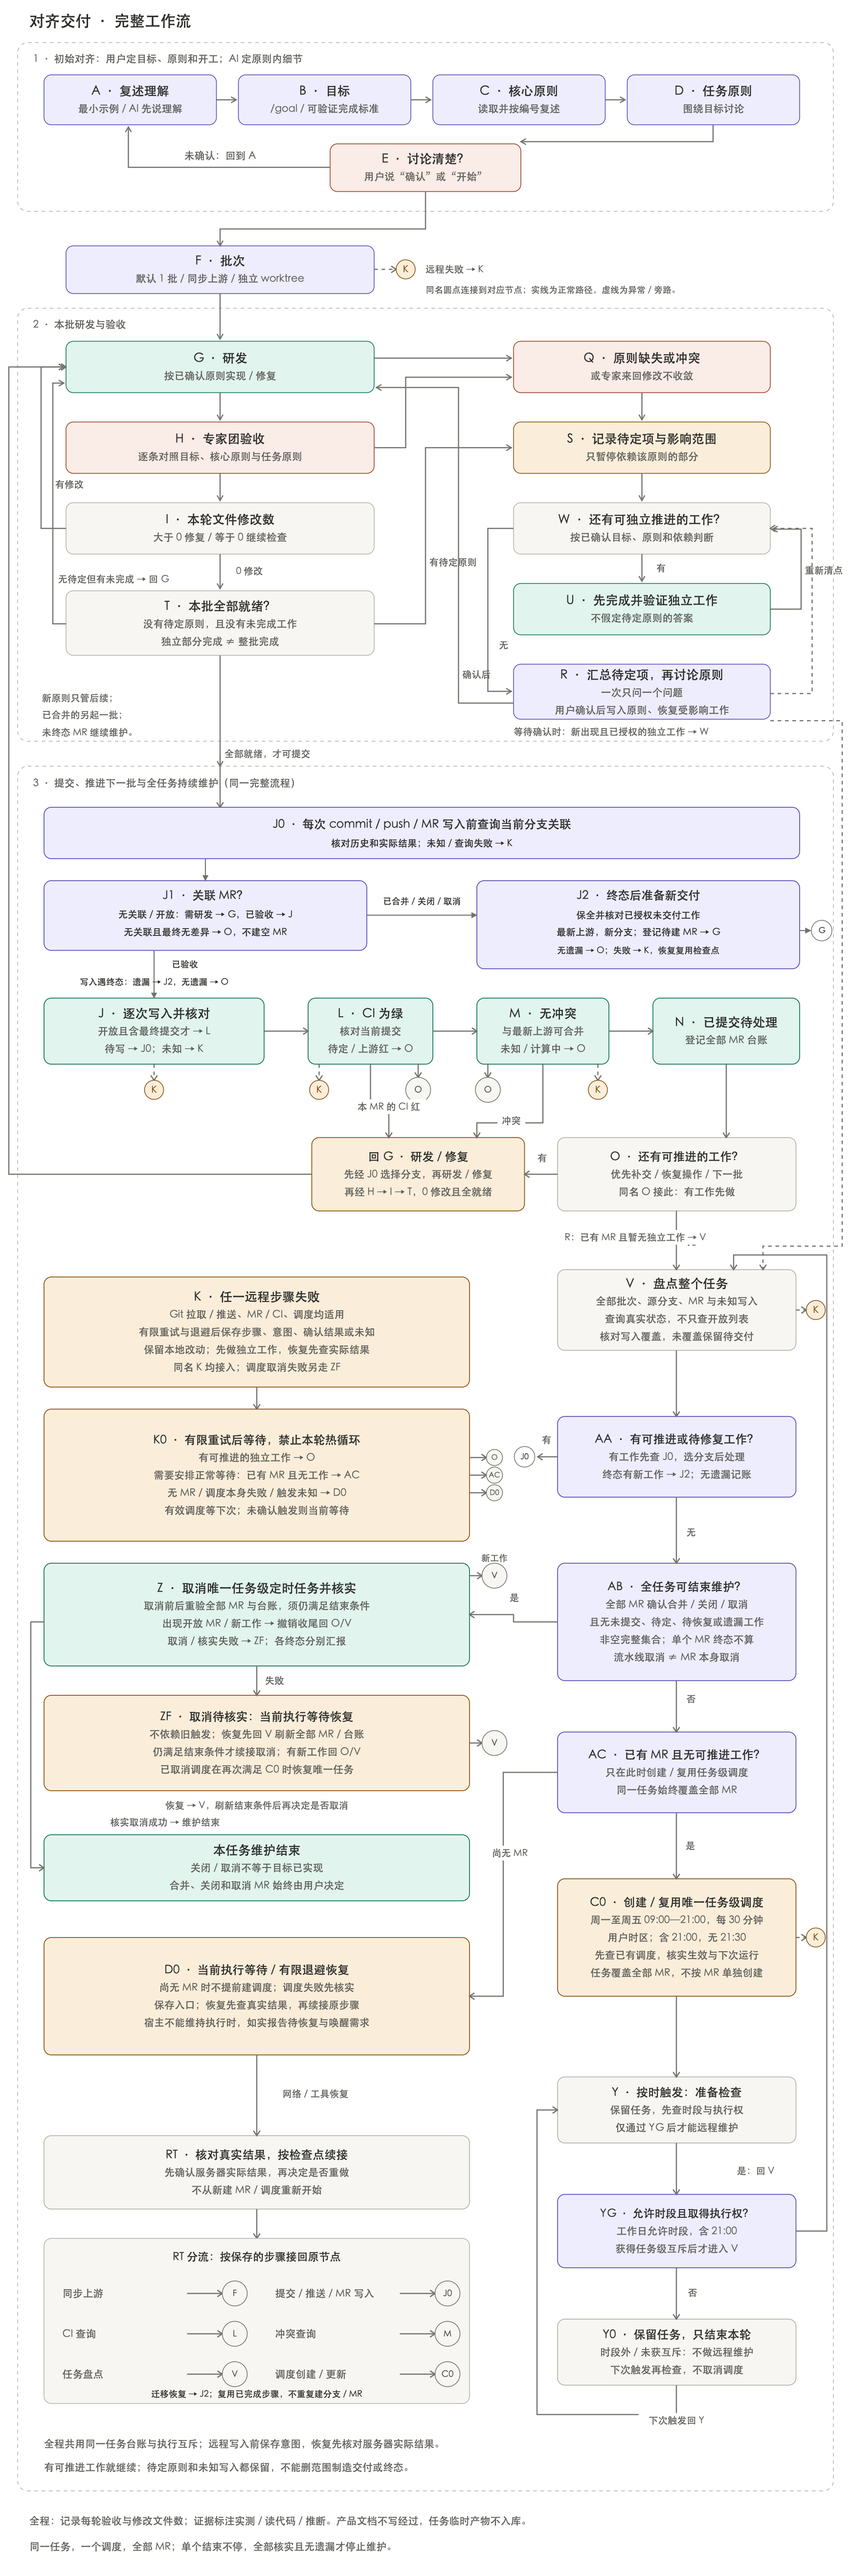
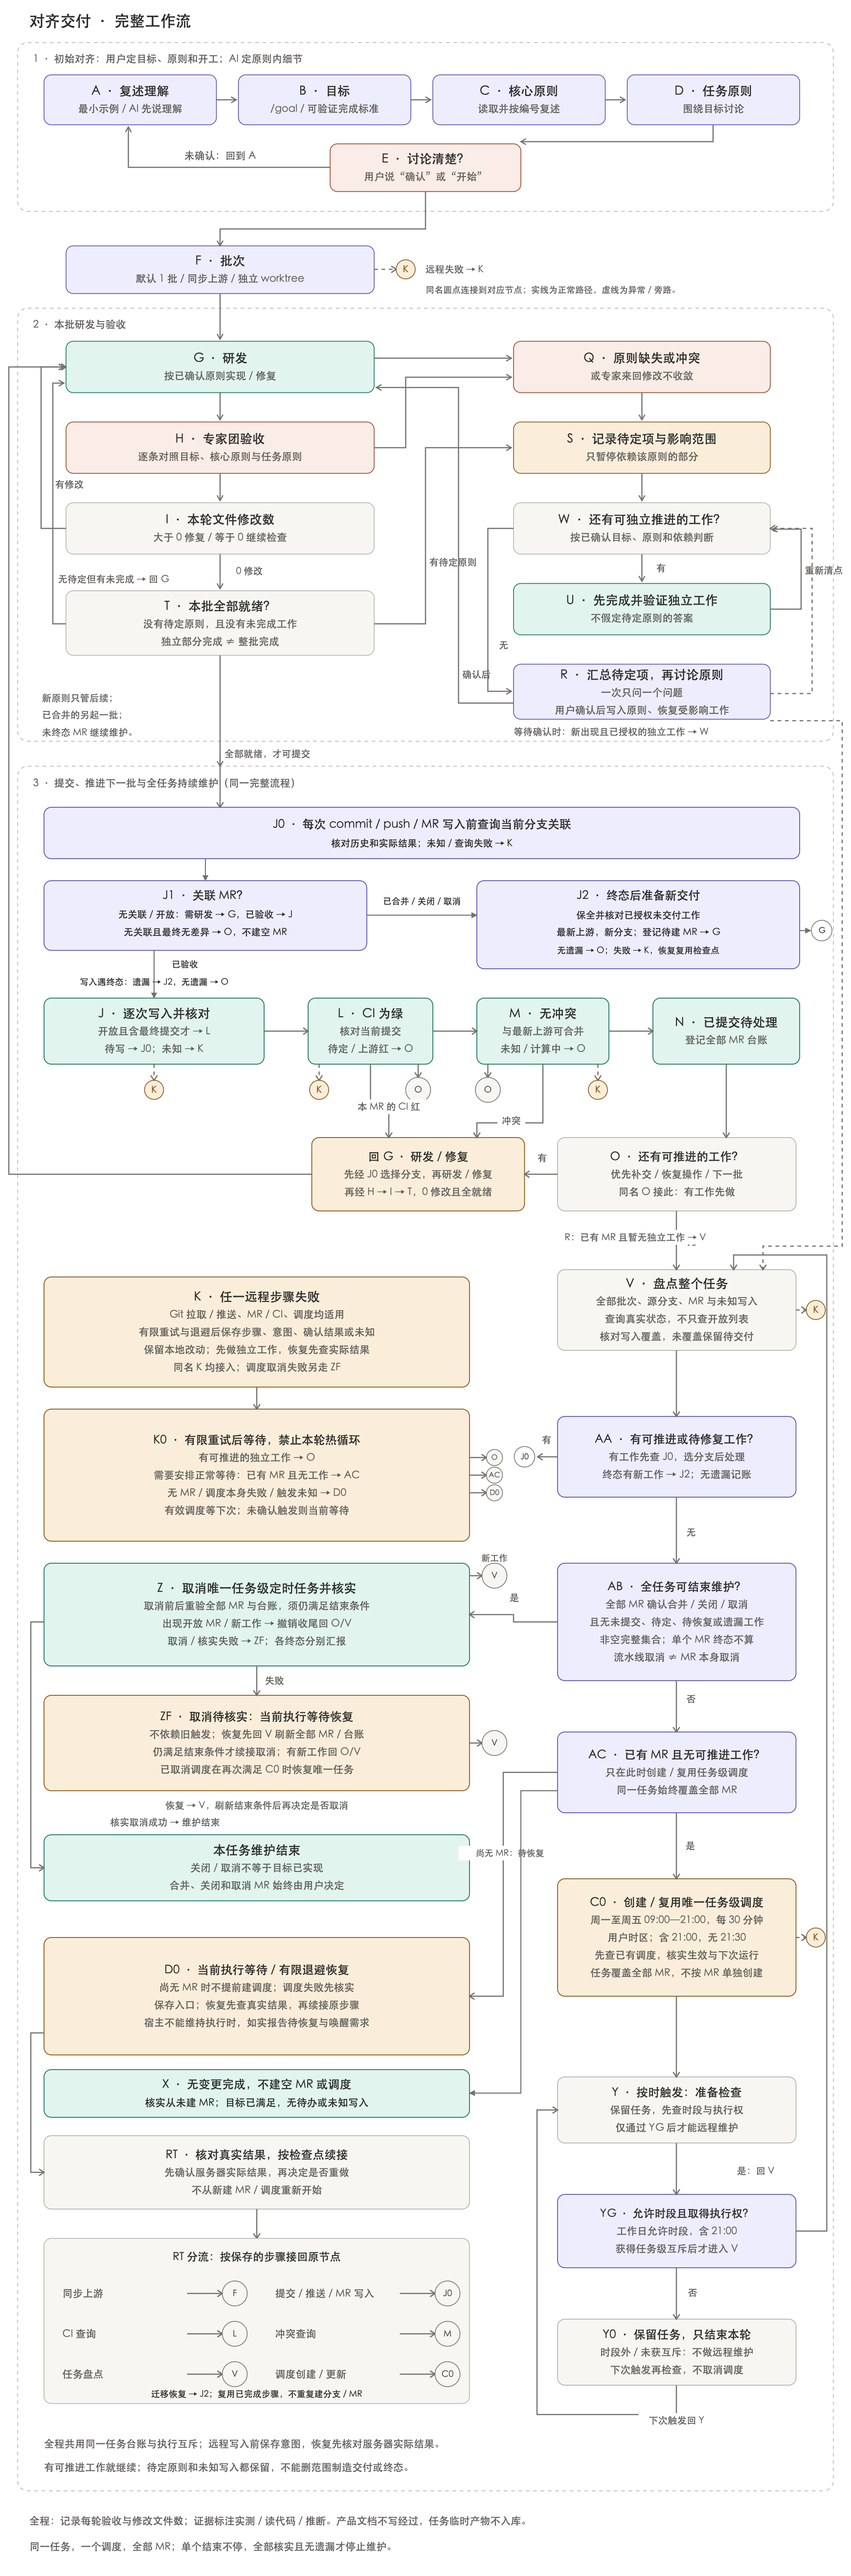
Publish zero-change completion fix 8f6d81e

Changed region(s): [[0.031, 0.7787, 0.5586, 0.841]]

diff --git a/README.md b/README.md
@@ -1,21 +1,21 @@
 # align-deliver
 
-对齐交付技能的独立公开分发。固定版本：`0208fae3800a64373f7d5cc5cd26f1298f995020`。
+对齐交付技能的独立公开分发。固定版本：`8f6d81e1d316c3a62b090bca61c21d41ad81ddba`。
 
 先对齐目标和原则，再研发、专家验收与提交 MR；有工作先做，远程失败按检查点恢复，持续维护全部 MR。旧 MR 已终态后的新工作转入新分支与新 MR。
 
 ## 下载
 
-- [完整安装包](https://github.com/lzxb/align-deliver/releases/download/v2026.10.24-0208fae/align-deliver-0208fae.zip)：仅包含 `align-deliver/` 下已验收的 10 个文件。
-- [SHA256SUMS](https://github.com/lzxb/align-deliver/releases/download/v2026.10.24-0208fae/SHA256SUMS)
-- [版本发布页](https://github.com/lzxb/align-deliver/releases/tag/v2026.10.24-0208fae)
+- [完整安装包](https://github.com/lzxb/align-deliver/releases/download/v2026.10.24-8f6d81e/align-deliver-8f6d81e.zip)：仅包含 `align-deliver/` 下已验收的 10 个文件。
+- [SHA256SUMS](https://github.com/lzxb/align-deliver/releases/download/v2026.10.24-8f6d81e/SHA256SUMS)
+- [版本发布页](https://github.com/lzxb/align-deliver/releases/tag/v2026.10.24-8f6d81e)
 
 ## macOS / Linux 安装
 
 需要 `curl`、`unzip`，以及 `sha256sum` 或 `shasum`。
 
 ```sh
-curl -fL 'https://github.com/lzxb/align-deliver/releases/download/v2026.10.24-0208fae/install.sh' -o /tmp/install-align-deliver.sh
+curl -fL 'https://github.com/lzxb/align-deliver/releases/download/v2026.10.24-8f6d81e/install.sh' -o /tmp/install-align-deliver.sh
 sh /tmp/install-align-deliver.sh
 ```
 
@@ -32,7 +32,7 @@ sh /tmp/install-align-deliver.sh /path/to/skills
 ## 版本校验
 
 ```text
-55e700b232f5951c37b86535139b14ee54224b3ae046b4336dece36e608f2072  align-deliver-0208fae.zip
+715d4be97ef6f0bca67b815bb8a747d4d8264c4faac3ca93dd151da378e86425  align-deliver-8f6d81e.zip
 ```
 
 本仓库分发固定快照；更新不会自动覆盖已安装版本。

diff --git a/align-deliver/references/mr-maintenance.md b/align-deliver/references/mr-maintenance.md
@@ -19,7 +19,7 @@
 
 ## 先工作，再安排等待
 
-有可独立推进的研发、验收、提交或恢复工作时先做；已有 MR 不是立即创建定时任务的理由。只有已提交至少一个 MR、当前无可推进工作、全部任务尚未终态，才用宿主实际支持的调度工具创建或复用一个任务级检查。尚无 MR 的网络等待留在当前执行中，有限退避后再查，不新建定时任务；若宿主无法继续运行，保存恢复入口并如实报告能力限制，不宣称会自动醒来。
+有可独立推进的研发、验收、提交或恢复工作时先做；已有 MR 不是立即创建定时任务的理由。只有已提交至少一个 MR、当前无可推进工作、全部任务尚未终态，才用宿主实际支持的调度工具创建或复用一个任务级检查。核实从未创建 MR、目标已被最新上游满足且无待办或未知写入时，按 X 无变更完成。尚无 MR 但仍有待恢复项时，留在当前执行中有限退避后再查，不新建定时任务；若宿主无法继续运行，保存恢复入口并如实报告能力限制，不宣称会自动醒来。
 
 时区跟随用户设置并写入台账；默认周一至周五，09:00、09:30、……、20:30、21:00 共 25 个时刻，不含 21:30。创建前查询已有任务，优先更新匹配稳定任务标识的那一个。用工具确认创建结果及下一次执行；不能只在提示里写“每天检查”而不落实调度。调度不能精确表示边界时，使用受支持的触发加入口时段判断，时段外不做远程维护；不得声称不支持的精度。
 
